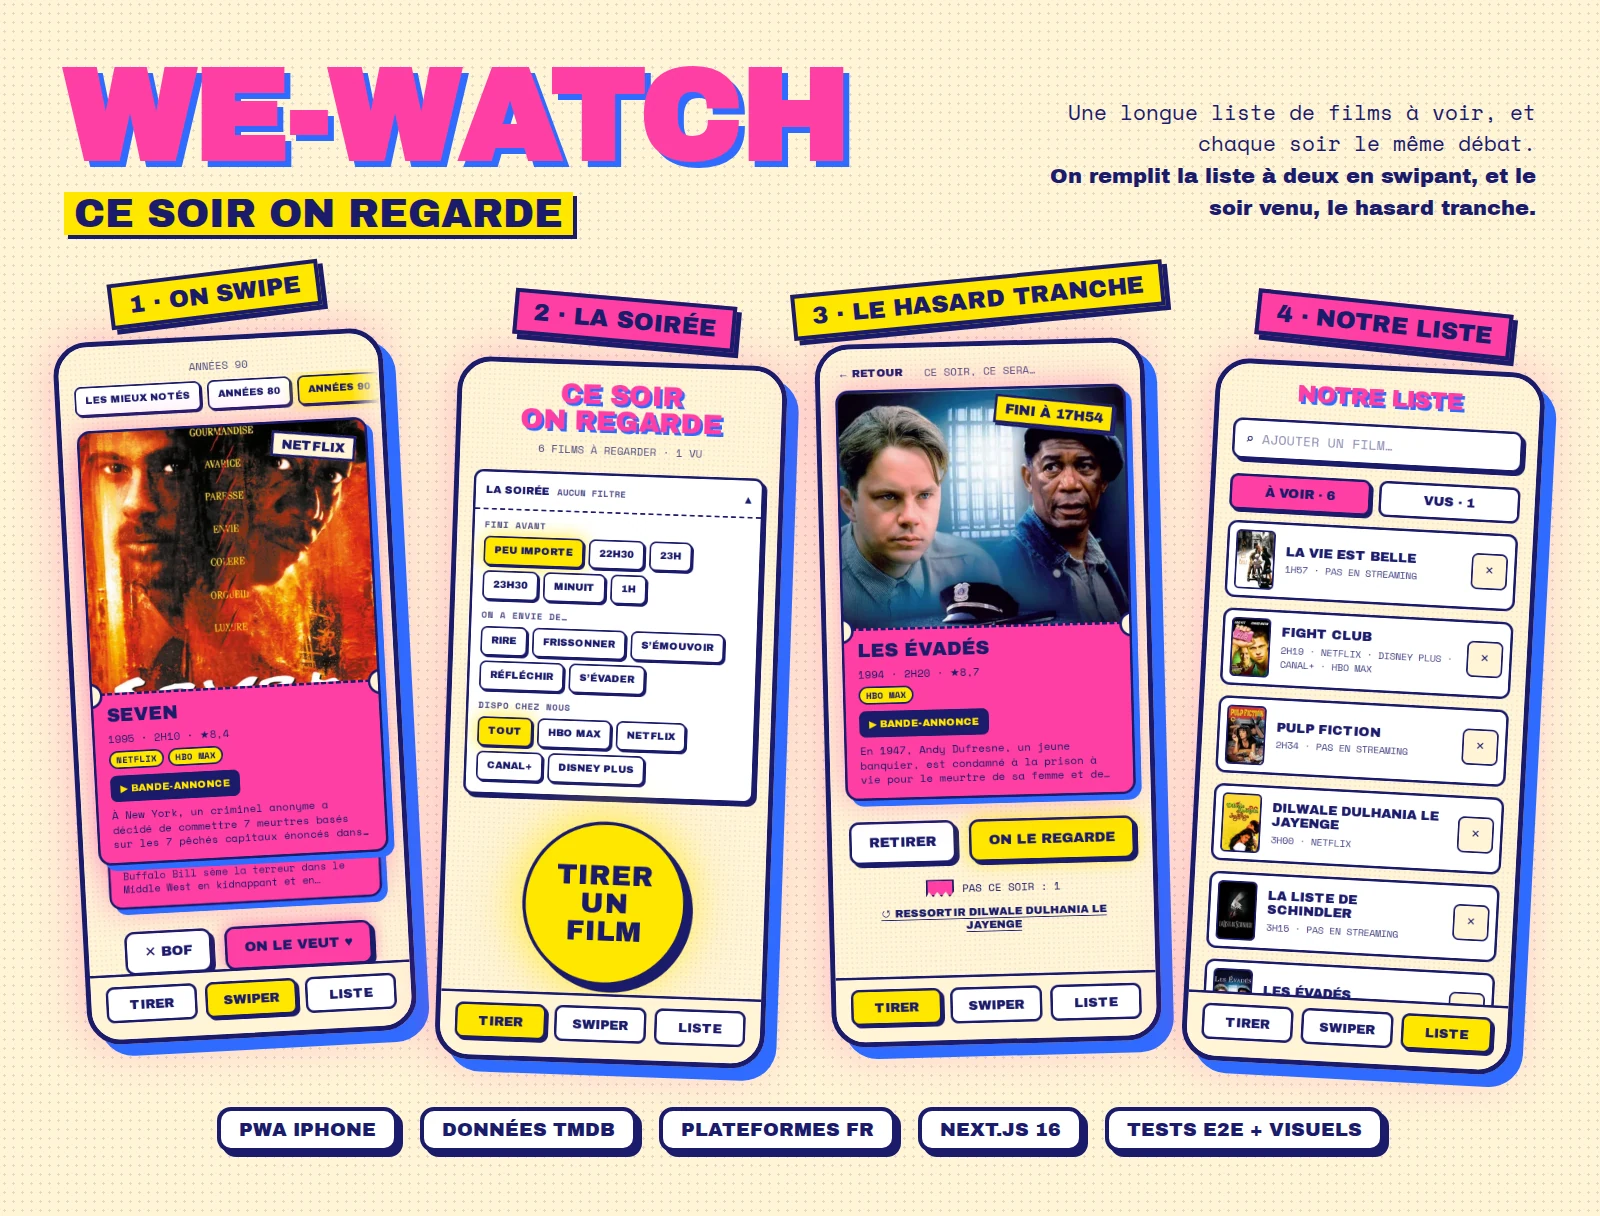
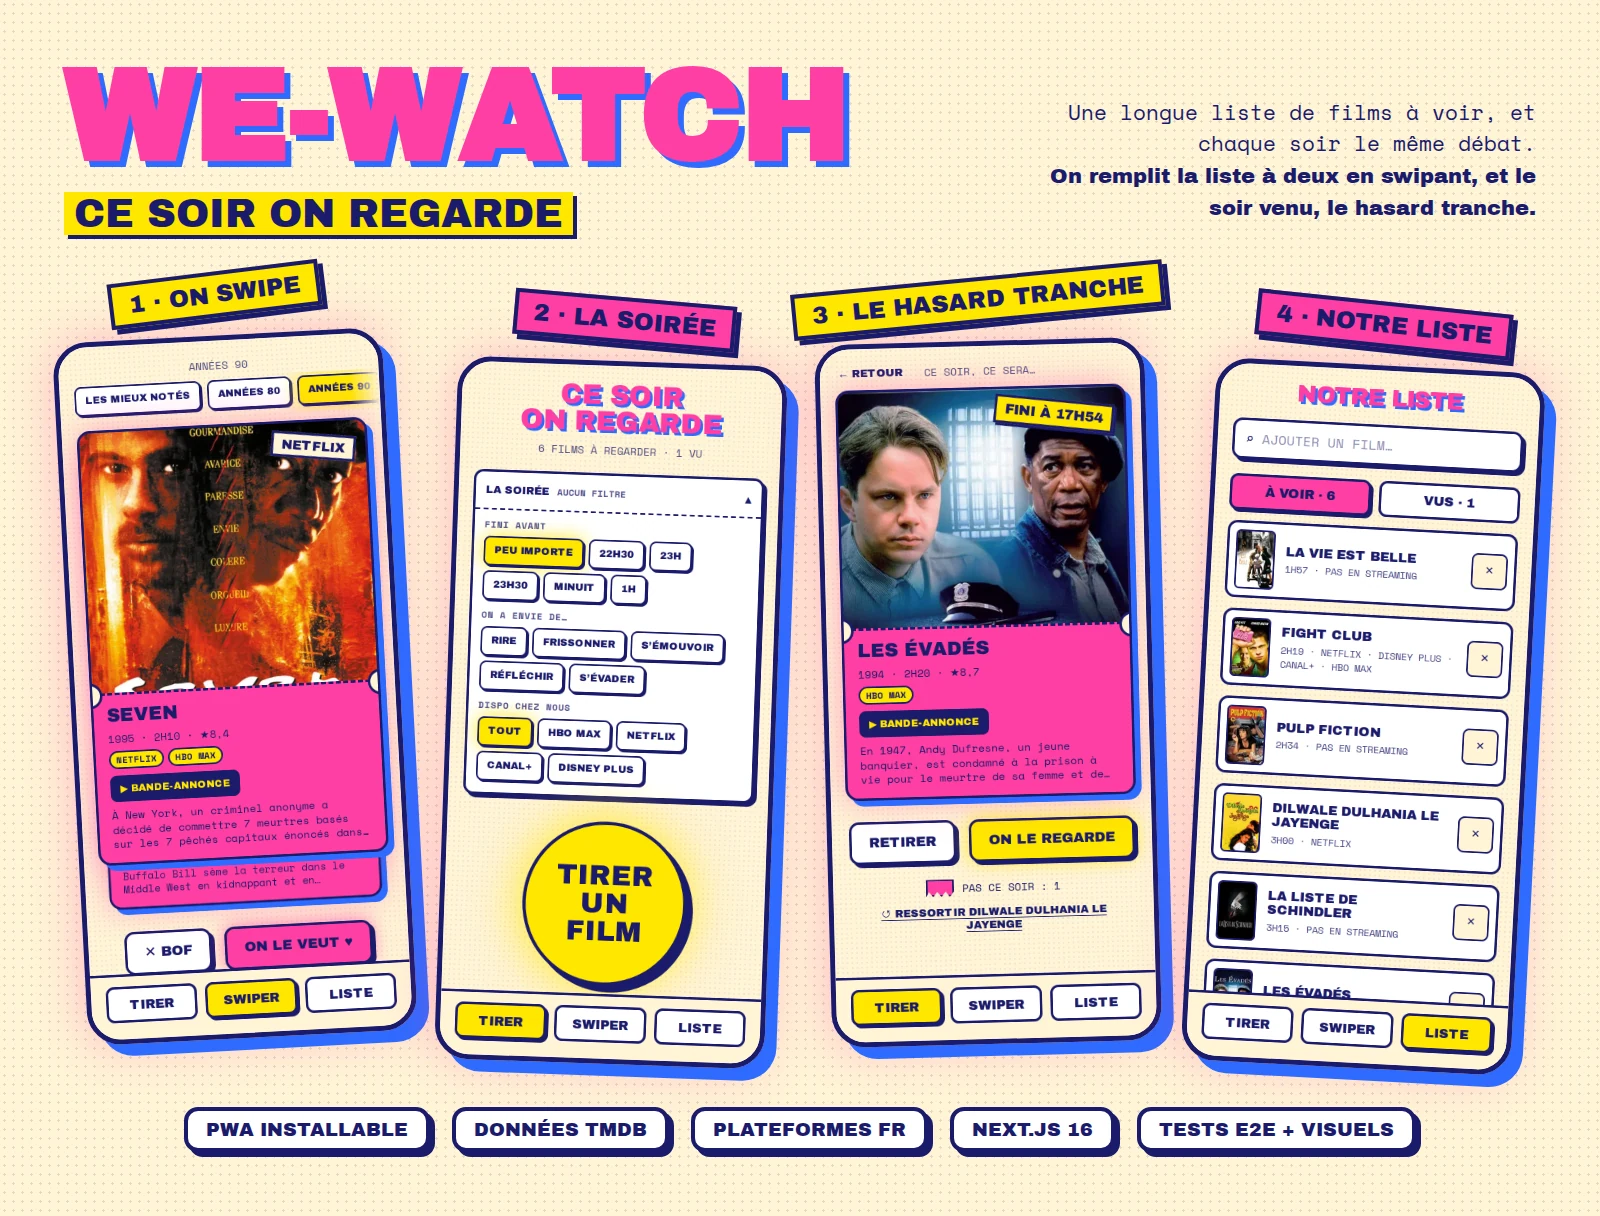
docs(readme): present the app as a PWA for every device, not only the iPhone

Changed region(s): [[0.0938, 0.9062, 0.9062, 0.9688]]

diff --git a/README.md b/README.md
@@ -6,7 +6,7 @@
   <a href="https://github.com/thogio8/we-watch/actions/workflows/ci.yml"><img src="https://github.com/thogio8/we-watch/actions/workflows/ci.yml/badge.svg" alt="CI"></a>
   <a href="https://github.com/thogio8/we-watch/releases"><img src="https://img.shields.io/github/v/release/thogio8/we-watch?label=version&color=ff3fa4" alt="Version"></a>
   <img src="https://img.shields.io/badge/Next.js-16-1b1b6b" alt="Next.js 16">
-  <img src="https://img.shields.io/badge/PWA-iPhone-ffe600?labelColor=1b1b6b" alt="PWA iPhone">
+  <img src="https://img.shields.io/badge/PWA-installable-ffe600?labelColor=1b1b6b" alt="PWA installable">
   <a href="LICENSE"><img src="https://img.shields.io/badge/licence-MIT-2f6bff" alt="Licence MIT"></a>
 </p>
 
@@ -86,9 +86,13 @@ Il n'y a pas de comptes : un code partagé (`ACCESS_CODE`), saisi une fois par a
 
 > Une vraie authentification est en préparation pour la prochaine version.
 
-## L'installer sur iPhone
+## L'installer comme une appli
 
-Dans Safari : Partager → « Sur l'écran d'accueil ». L'appli s'ouvre alors en plein écran, avec son icône de ticket.
+C'est une PWA : une fois installée, elle s'ouvre en plein écran depuis son icône de ticket, comme une appli.
+
+- **iPhone / iPad** (Safari) : Partager → « Sur l'écran d'accueil ».
+- **Android** (Chrome) : menu ⋮ → « Installer l'application ».
+- **Ordinateur** (Chrome, Edge) : icône d'installation dans la barre d'adresse.
 
 ## Sous le capot
 

diff --git a/CLAUDE.md b/CLAUDE.md
@@ -2,7 +2,7 @@
 
 # we-watch
 
-Appli pour un couple : on swipe des films TMDB dans une liste « à voir », puis le soir un tirage au sort choisit le film (avec filtres « ce soir » : heure de coucher, humeur, plateformes). PWA installée sur iPhone, protégée par un code d'accès partagé, sans comptes. Pas un produit commercial (licences TMDB / Vercel Hobby non commerciales).
+Appli pour un couple : on swipe des films TMDB dans une liste « à voir », puis le soir un tirage au sort choisit le film (avec filtres « ce soir » : heure de coucher, humeur, plateformes). PWA installable (iPhone, Android, ordinateur), protégée par un code d'accès partagé, sans comptes. Pas un produit commercial (licences TMDB / Vercel Hobby non commerciales).
 
 - Prod : Vercel (région des fonctions dans `vercel.json`, au plus près de la base) + base Turso (libSQL). L'adresse de prod est la variable de dépôt GitHub `PROD_URL` (`gh variable list`), jamais écrite en dur.
 - Spec de référence, versions comprises : `docs/superpowers/specs/2026-10-23-we-watch-design.md` (§1-10 V1/V1.1, §11 V1.2, §12 V1.2.1, §13 V1.2.2+). **La lire avant toute fonctionnalité** et y ajouter une section pour chaque nouvelle version.
